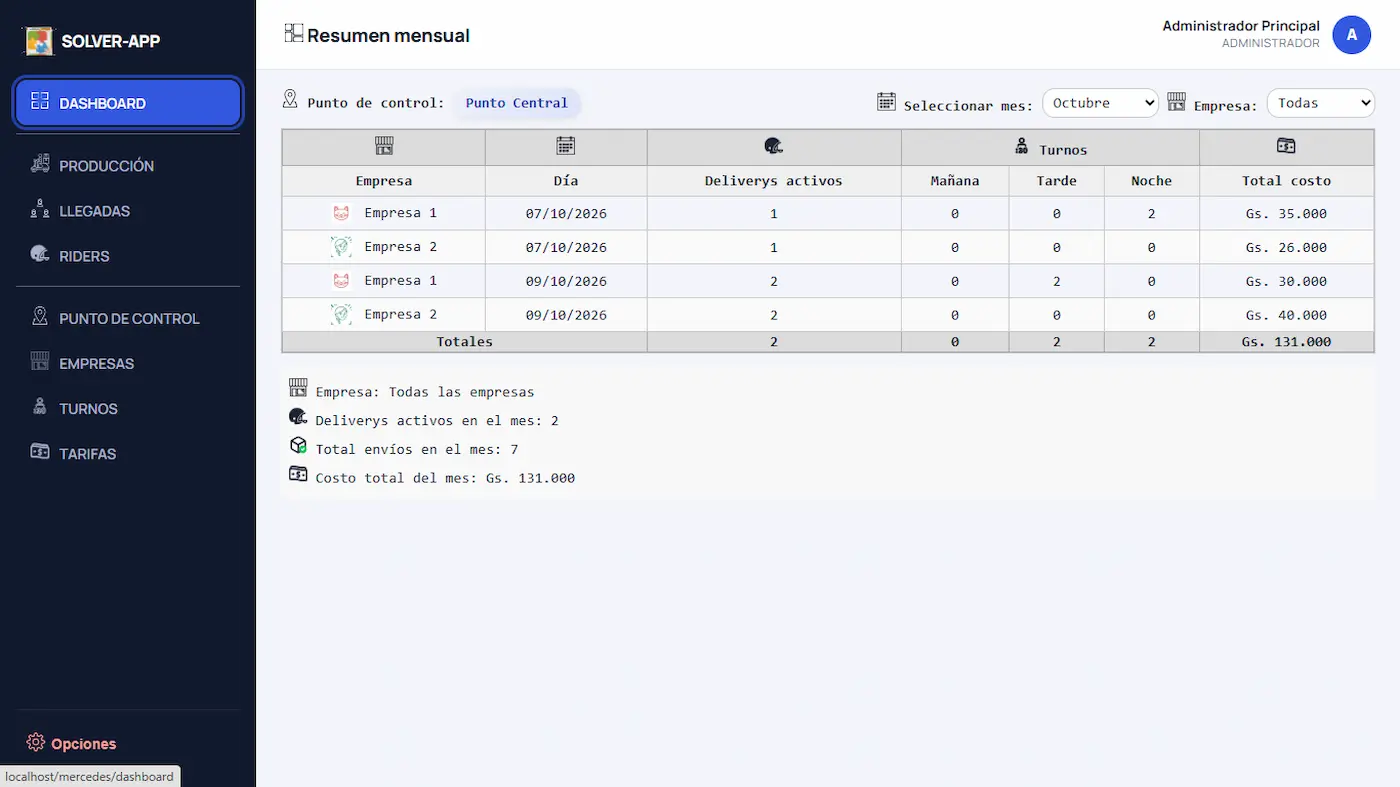
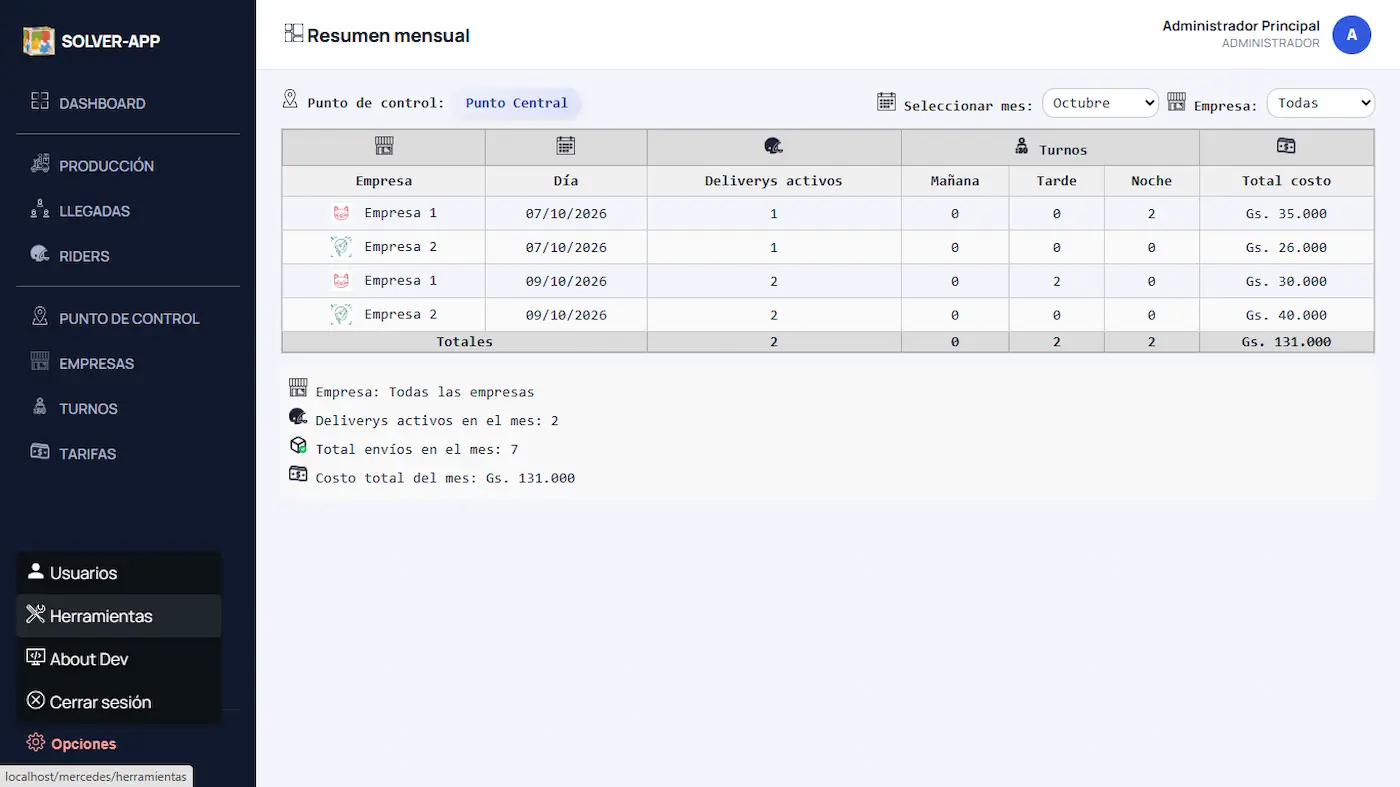
ajustes en vista invitados - se agrega tarjeta resumen

Changed region(s): [[0.0, 0.7014, 0.1536, 0.9149], [0.0, 0.0305, 0.1843, 0.183], [0.0921, 0.9759, 0.1536, 1.0]]

diff --git a/public/css/style.css b/public/css/style.css
@@ -1815,6 +1815,43 @@ input:checked + .slider:before {
   padding-left: 0.5rem;
 }
 
+/* resumen grupo */
+.wrapper .rider-col-resume {
+  margin-bottom: 1.5rem;
+  padding: 1rem;
+  border-radius: 6px;
+  background: var(--color-surface);         /* fondo blanco para contraste */
+  border: 1px solid #ddd;
+  transition: transform 0.2s ease;
+  width: 190px;
+}
+
+
+.resumen-grupo-header{
+    display:flex;
+    align-items:center;
+    gap:10px;
+    margin-bottom:12px;
+}
+
+.resumen-grupo-icono{
+    width:32px;
+    height:32px;
+    border-radius:50%;
+    object-fit:cover;
+    flex-shrink:0;
+}
+
+.resumen-grupo-titulo{
+    margin:0;
+    font-family:Consolas, "Courier New", monospace;
+    font-size:1rem;
+    font-weight:700;
+    text-transform:uppercase;
+    letter-spacing:1px;
+}
+
+
 /* Rider dentro del grupo */
 .wrapper .rider-col {
   margin-bottom: 1.5rem;
@@ -2220,6 +2257,32 @@ facturas-table[type="date"]::-webkit-calendar-picker-indicator {
   font-weight: bold;
   padding: 10px;
   color: #fff;
+}
+
+.resumen-grupo{
+    margin-bottom:20px;
+    padding:12px 0;
+}
+
+.resumen-header,
+.resumen-fila{
+    display:flex;
+    justify-content:space-between;
+    align-items:center;
+    max-width:260px;
+
+    font-family: Consolas, "Courier New", monospace;
+    font-size:0.95rem;
+}
+
+.resumen-header{
+    font-weight:700;
+}
+
+.resumen-separador{
+    width: 100%;
+    border-top:1px dashed #8c8c8c;
+    margin:6px 0;
 }
 
 .icono-grupo-dark {

diff --git a/views/invitados/index.php b/views/invitados/index.php
@@ -6,7 +6,7 @@
       <!-- Fecha -->
       <div class="filter-item">
         <input type="date" name="fecha" id="fecha" 
-              value="<?= htmlspecialchars($fechaSeleccionada) ?>">        
+              value="<?= htmlspecialchars($fechaSeleccionada ?? '') ?>">        
       </div>
       <!-- Botón Filtrar -->
       <div class="filter-item">
@@ -33,7 +33,7 @@
           <h2 class="grupo-titulo"><?= htmlspecialchars($grupo['grupo_nombre']) ?></h2>
         </div>
         <div class="wrapper">
-          <?php foreach ($grupo['riders'] as $p): ?>      
+          <?php foreach ($grupo['riders'] as $p): ?>  
             <div class="rider-col">
               <h3 class="span-monto"><?= htmlspecialchars($p['rider_nombre']) ?></h3>
               <table class="produccion-table">
@@ -66,6 +66,36 @@
               <span class="span-monto"><?= number_format($p['total_tarifa'], 0, ',', '.') ?></span>
             </div>
           <?php endforeach; ?>
+          <div class="rider-col-resume">
+            
+            <div class="resumen-grupo-header">
+              <?php if (!empty($grupo['grupo_icono'])): ?>              
+                <img src="/mercedes/public/uploads/grupos/<?= htmlspecialchars($grupo['grupo_icono']) ?>" 
+                    alt="Icono <?= htmlspecialchars($grupo['grupo_nombre']) ?>" 
+                    class="resumen-grupo-icono">
+              <?php endif; ?>
+              <h3 class="resumen-grupo-titulo"><?= htmlspecialchars($grupo['grupo_nombre']) ?></h3>
+            </div>            
+
+            <div class="resumen-grupo">
+
+                <div class="resumen-header">
+                    <span>ENVIOS</span>
+                    <span>TOTAL</span>
+                </div>
+
+                <div class="resumen-separador"></div>
+
+                <div class="resumen-fila">
+                    <span><?= number_format($grupo['cantidad_servicios'], 0, ',', '.') ?></span>
+                    <span><?= number_format($grupo['importe'], 0, ',', '.') ?></span>
+                </div>
+
+                <div class="resumen-separador"></div>
+
+            </div>
+
+          </div>
         </div>
       </div>
     <?php endforeach; ?>

diff --git a/app/services/ProduccionService.php b/app/services/ProduccionService.php
@@ -125,4 +125,42 @@ class ProduccionService
         return $produccionModel->getAllProduccionConRiders($fecha);
     }
 
+    public function getResumenPorGrupo(array $produccionesResumen): array
+    {
+        $resumen = [];
+
+        foreach ($produccionesResumen as $grupo) {
+
+            $serviciosGrupo = 0;
+            $importeGrupo = 0;
+
+            $riders = [];
+
+            foreach ($grupo['riders'] as $rider) {
+
+                $cantidadServicios = count($rider['tarifas']);
+                $importe = (float)$rider['total_tarifa'];
+
+                $serviciosGrupo += $cantidadServicios;
+                $importeGrupo += $importe;
+
+                $riders[] = [
+                    'nombre' => $rider['rider_nombre'],
+                    'servicios' => $cantidadServicios,
+                    'importe' => $importe
+                ];
+            }
+
+            $resumen[] = [
+                'grupo_nombre' => $grupo['grupo_nombre'],
+                'grupo_icono' => $grupo['grupo_icono'],
+                'servicios' => $serviciosGrupo,
+                'importe' => $importeGrupo,
+                'riders' => $riders
+            ];
+        }
+
+        return $resumen;
+    }
+
 }

diff --git a/models/ProduccionModel.php b/models/ProduccionModel.php
@@ -816,9 +816,11 @@ class ProduccionModel {
             $grupoId = $row['id_grupo'];
             if (!isset($producciones[$grupoId])) {
                 $producciones[$grupoId] = [
-                    'grupo_id'     => $grupoId,
-                    'grupo_nombre' => $row['grupo_nombre'],
-                    'grupo_icono'  => $row['grupo_icono'],
+                    'grupo_id'           => $grupoId,
+                    'grupo_nombre'       => $row['grupo_nombre'],
+                    'grupo_icono'        => $row['grupo_icono'],
+                    'importe'            => 0,
+                    'cantidad_servicios' => 0,
                     'riders'       => []
                 ];
             }
@@ -850,6 +852,9 @@ class ProduccionModel {
             ];
 
             $producciones[$grupoId]['riders'][$riderId]['total_tarifa'] += $row['tarifa'];
+            $producciones[$grupoId]['importe'] += (float)$row['tarifa'];
+            $producciones[$grupoId]['cantidad_servicios']++;
+
         }
 
         return array_values($producciones);

diff --git a/controllers/InvitadosController.php b/controllers/InvitadosController.php
@@ -28,10 +28,12 @@ class InvitadosController extends BaseController {
         $fechaSeleccionada = $_GET['fecha'] ?? ($_POST['fecha'] ?? date('Y-m-d'));
 
         $produccionesResumen = $this->produccionService->getProduccionPorFecha($fechaSeleccionada);
+        $resumenPorGrupo = $this->produccionService->getResumenPorGrupo($produccionesResumen);
 
         $data = [
             'view' => 'invitados/index',
             'produccionesResumen' => $produccionesResumen,
+            'resumenPorGrupo' => $resumenPorGrupo,
             'fechaSeleccionada' => $fechaSeleccionada
         ];
 
